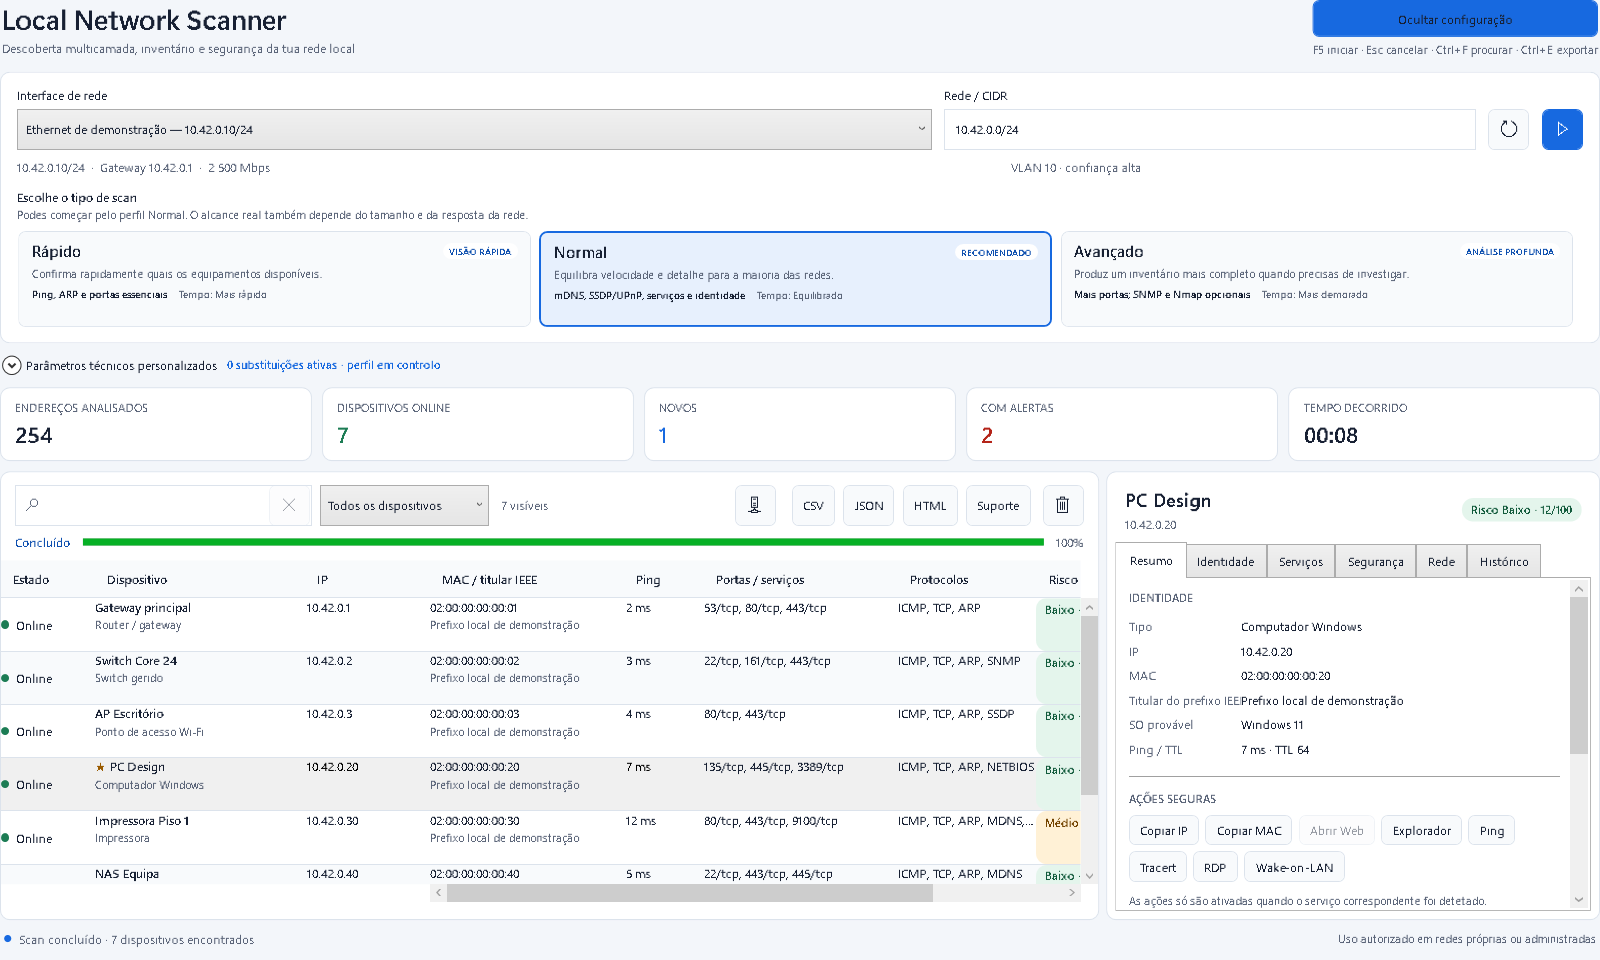
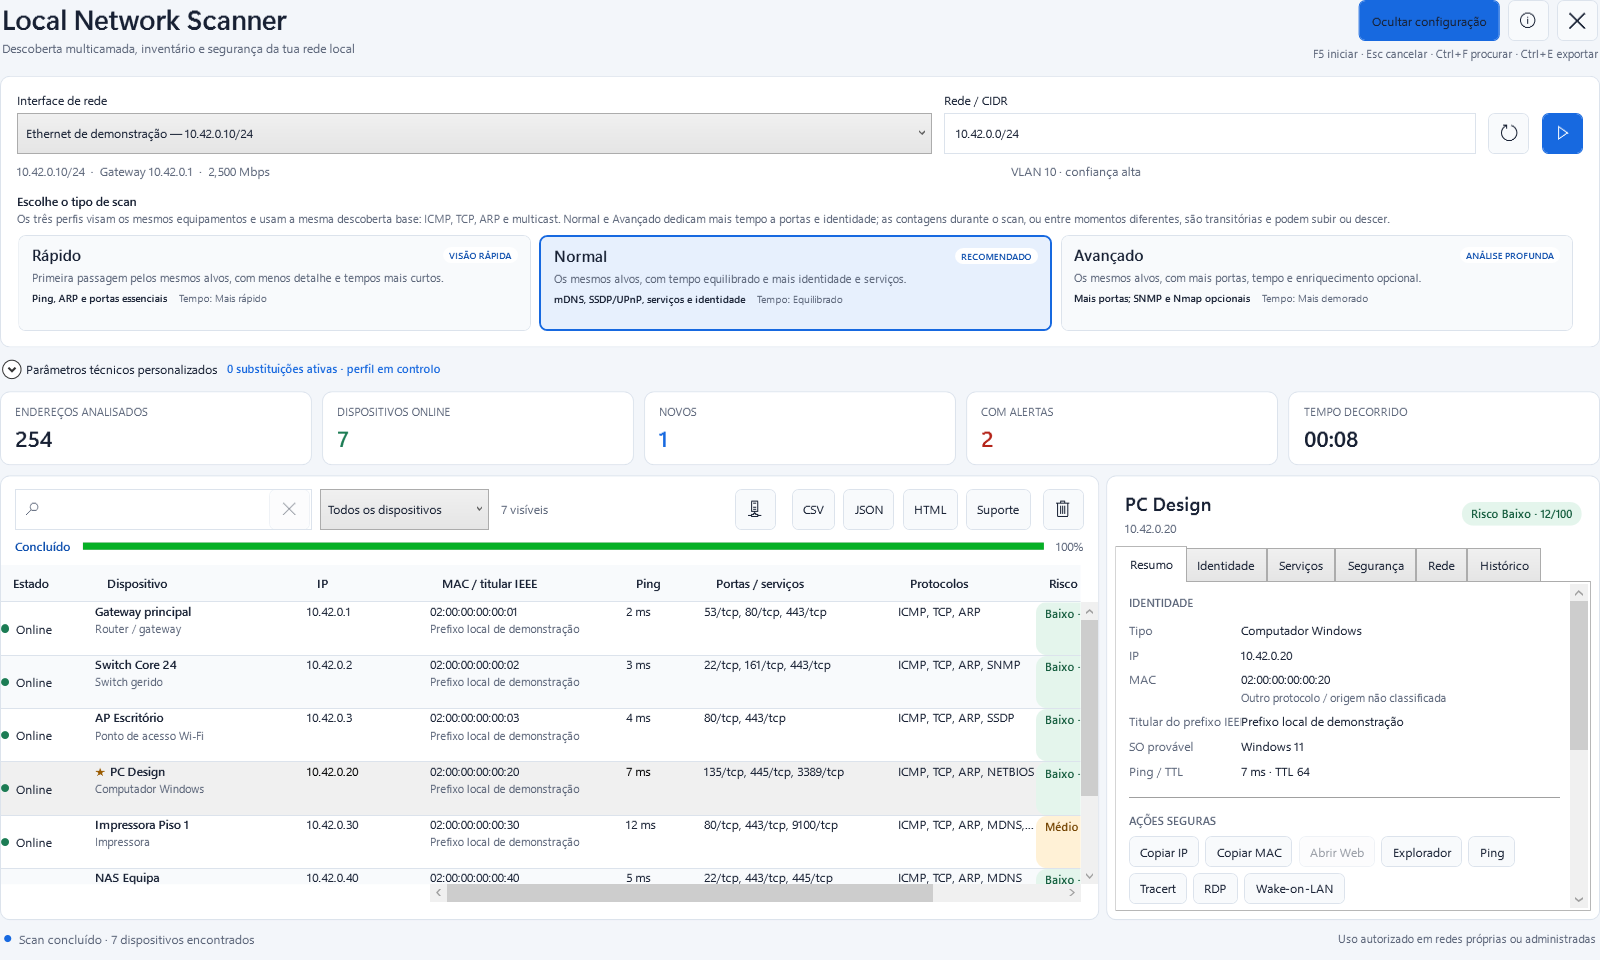
docs: refresh public release guidance and screenshots

diff --git a/README.md b/README.md
@@ -7,11 +7,11 @@
 ![Windows](https://img.shields.io/badge/Windows-x64%20%7C%20ARM64-0078d4)
 [![License: MIT](https://img.shields.io/badge/license-MIT-0f766e)](https://github.com/p-darksy-r/LocalNetworkScanner/blob/main/LICENSE)
 
-[CI](https://github.com/p-darksy-r/LocalNetworkScanner/actions/workflows/ci.yml) · [Releases](https://github.com/p-darksy-r/LocalNetworkScanner/releases) · [Instalação](https://github.com/p-darksy-r/LocalNetworkScanner/blob/main/docs/INSTALLATION.md) · [Privacidade](https://github.com/p-darksy-r/LocalNetworkScanner/blob/main/PRIVACY.md) · [Code signing policy](https://github.com/p-darksy-r/LocalNetworkScanner/blob/main/CODE_SIGNING_POLICY.md) · [Limites técnicos](https://github.com/p-darksy-r/LocalNetworkScanner/blob/main/docs/TECHNICAL_LIMITS.md)
+[CI](https://github.com/p-darksy-r/LocalNetworkScanner/actions/workflows/ci.yml) · [Releases](https://github.com/p-darksy-r/LocalNetworkScanner/releases) · [Instalação](https://github.com/p-darksy-r/LocalNetworkScanner/blob/main/docs/INSTALLATION.md) · [Privacidade](https://github.com/p-darksy-r/LocalNetworkScanner/blob/main/PRIVACY.md) · [Segurança](https://github.com/p-darksy-r/LocalNetworkScanner/blob/main/SECURITY.md) · [Code signing policy](https://github.com/p-darksy-r/LocalNetworkScanner/blob/main/CODE_SIGNING_POLICY.md) · [Limites técnicos](https://github.com/p-darksy-r/LocalNetworkScanner/blob/main/docs/TECHNICAL_LIMITS.md)
 
 Scanner de redes locais para Windows com uma UI WPF simples, uma CLI para automação, diagnósticos acionáveis e topologia opcional. O programa separa observações diretas, dados fornecidos pela infraestrutura e inferências, para que um resultado provável nunca seja apresentado como facto confirmado.
 
-> **Estado de distribuição:** o repositório é público, mas todos os binários publicados atualmente continuam sem assinatura Authenticode. A `v1.2.0` é histórica, não é recomendada para instalação e permanece marcada como `Latest` apenas por ser a última release estável no GitHub. A `v1.4.0` é o candidato de código e QA mais recente; a sua prerelease conserva o título histórico `Private QA (NotSigned)`, mas os assets são agora publicamente acessíveis e não constituem uma distribuição de produção.
+> **Estado de distribuição:** o repositório é público, mas todos os binários publicados atualmente continuam sem assinatura Authenticode. A `v1.2.0` foi reclassificada como prerelease histórica e não é recomendada para instalação; atualmente nenhuma release está marcada como `Latest`. A `v1.4.0` é o candidato de código e QA mais recente; a sua prerelease conserva o título histórico `Private QA (NotSigned)`, mas os assets são agora publicamente acessíveis e não constituem uma distribuição de produção.
 >
 > O `main` prepara a versão `1.4.1`, ainda sem tag nem release. A avaliação de elegibilidade para o programa gratuito da SignPath Foundation está pendente. O projeto ainda não foi aceite, não tem integração SignPath configurada e não possui uma release assinada pela SignPath Foundation. Uma eventual primeira release assinada terá de usar uma versão/tag nova e só poderá tornar-se estável/`Latest` depois dos gates de assinatura, validação x64/ARM64, política e redistribuição. Consulte a [Code signing policy](CODE_SIGNING_POLICY.md) e o [guia técnico de assinatura](docs/SIGNING.md).
 

diff --git a/SECURITY.md b/SECURITY.md
@@ -58,4 +58,16 @@ O workflow recusa uma nova publicação pública de produção enquanto os biná
 
 A avaliação de elegibilidade para a SignPath Foundation está pendente. Nenhuma release atual foi assinada ou aprovada pela SignPath, e o workflow ainda não possui essa integração. A [Code signing policy](CODE_SIGNING_POLICY.md) define o estado atual, as funções da equipa e os gates pendentes. Entre esses gates estão a clarificação das funcionalidades de enumeração/risco face à condição **No hacking tools** e a licença/autorização aplicável à snapshot IEEE incorporada. A acessibilidade pública do repositório ou dos assets não resolve nenhum desses pontos.
 
+## Proteções do repositório público
+
+O GitHub está configurado para:
+
+- impedir eliminação, force-push e histórico não linear em `main`;
+- impedir eliminação ou movimentação não fast-forward de tags `v*`;
+- exigir referências de GitHub Actions fixadas por SHA completo;
+- executar CodeQL `security-extended` em alterações C#/XAML e semanalmente;
+- usar secret scanning, push protection e relatórios privados de vulnerabilidade.
+
+O projeto mantém apenas o branch `main`; por isso atualizações de Actions fixadas por SHA são revistas manualmente em vez de abrir branches automáticos do Dependabot. Uma alteração a workflows, scripts de release, políticas de assinatura ou futuros ficheiros `.signpath` deve receber atenção equivalente a código executável.
+
 <!-- Copyright (c) 2026 p-darksy-r and Local Network Scanner. Licensed under the MIT License. -->

diff --git a/CHANGELOG.md b/CHANGELOG.md
@@ -24,6 +24,7 @@ O `main` prepara a versão `1.4.1`. Não foi criada nem reutilizada qualquer tag
 - a topologia ajusta-se à work area do monitor atual, permite scroll horizontal da toolbar, realça apenas o nó selecionado e as suas ligações e preserva o zoom ao atualizar a paleta de Alto Contraste;
 - resumo, pesquisa e seleção da topologia passam a emitir eventos live-region para leitores de ecrã;
 - README, segurança, instalação, assinatura, App Control, checklist e documentação IEEE distinguem corretamente repositório público, prereleases históricas `Private QA (NotSigned)` e candidatura SignPath ainda não aprovada;
+- todas as páginas de releases existentes ligam agora a **Code signing policy** e à política de privacidade; a `v1.2.0` foi reclassificada como prerelease histórica `NotSigned`, deixando o projeto sem uma falsa release `Latest` enquanto não existir produção assinada;
 - metadados do produto e manifesto Windows avançam para `1.4.1`, sem criar uma release.
 
 ### Security
